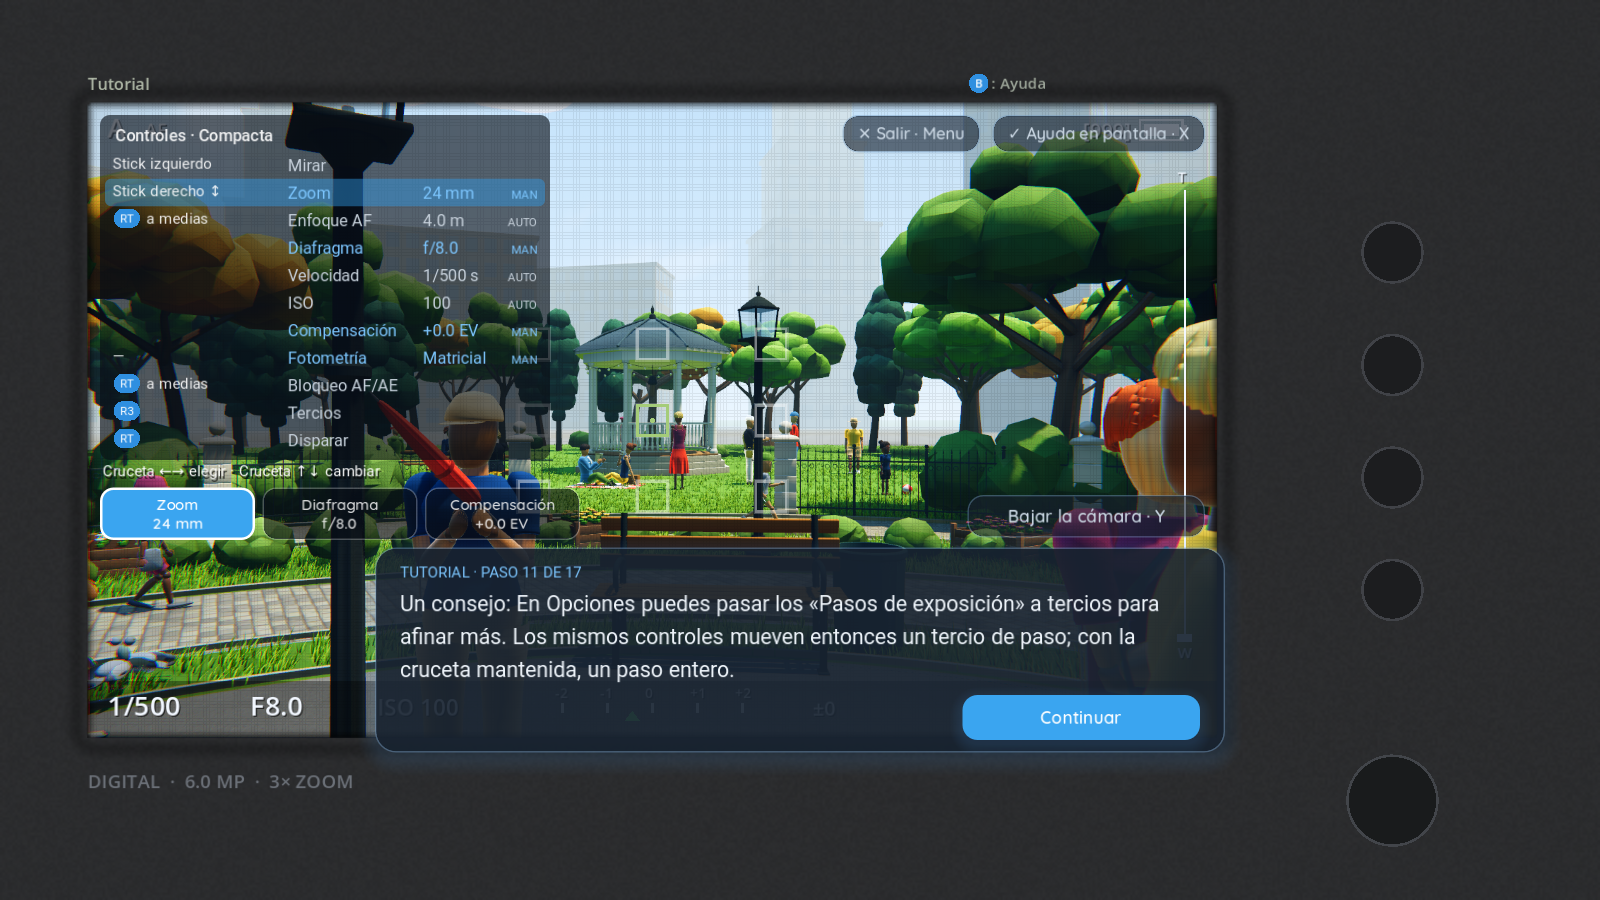
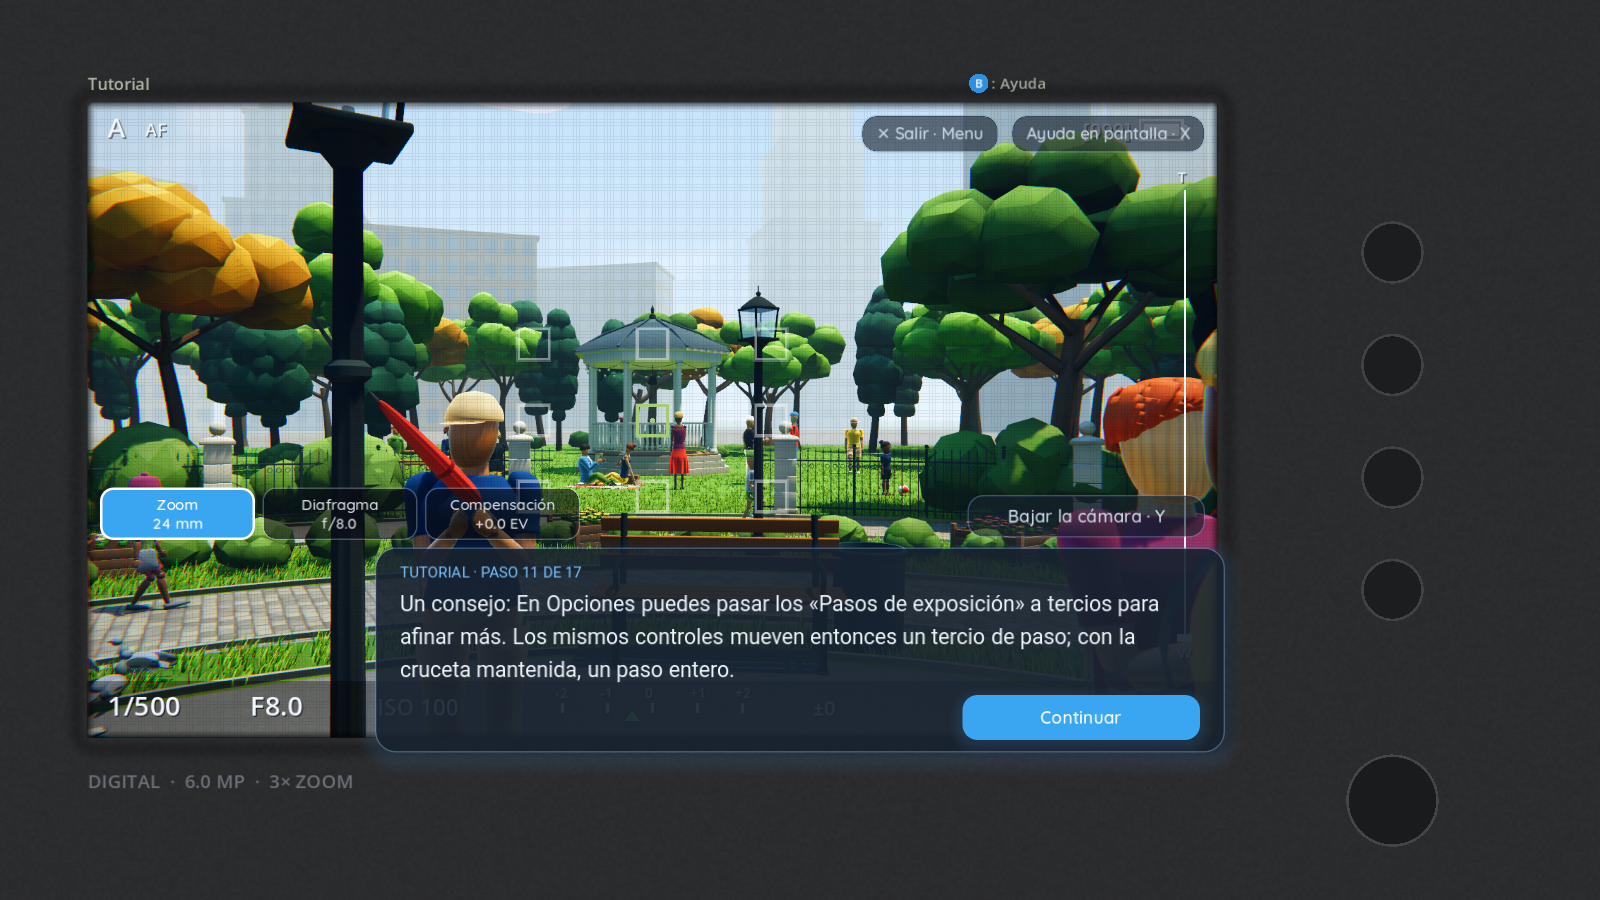
feat(opciones): menú reordenado (Gráficos y Equipo a doble columna; Tema · Invertir mirada, Vibración · Pasos, Álbum · Insignias); la ayuda en pantalla sale de Opciones; ← → buscan la opción de la misma fila

diff --git a/docs/futuro/22_MENU_TUTORIAL_MANDO.md b/docs/futuro/22_MENU_TUTORIAL_MANDO.md
@@ -120,8 +120,12 @@ Al arrancar (solo el juego real, nunca pruebas ni herramientas), `main.gd::check
 
 ## Tercios de paso (06-10-2026, usuario)
 
-Opciones tiene un noveno botón, **«Pasos de exposición: Enteros / Tercios»** (la rejilla pasa a cinco filas de 40 px). El tutorial gana el paso informativo `tercios`, tras el del diafragma, que lo aconseja y dice cómo saltar un paso entero con el dispositivo en uso (`{paso_entero}`: Mayús pulsada, la cruceta mantenida, − o + mantenidos). Todo el detalle en [docs/EQUIPAMIENTO_Y_OPTICAS.md §3.5](../EQUIPAMIENTO_Y_OPTICAS.md).
+Opciones tiene el botón **«Pasos de exposición: Enteros / Tercios»**. El tutorial gana el paso informativo `tercios`, tras el del diafragma, que lo aconseja y dice cómo saltar un paso entero con el dispositivo en uso (`{paso_entero}`: Mayús pulsada, la cruceta mantenida, − o + mantenidos). Todo el detalle en [docs/EQUIPAMIENTO_Y_OPTICAS.md §3.5](../EQUIPAMIENTO_Y_OPTICAS.md).
 
 ## Menú con mando: ← → van primero a la opción de al lado (06-10-2026, usuario)
 
 En el menú principal la cruceta, la seta izquierda y las flechas hacen lo mismo: ← → llevan a la opción que haya a ese lado de la que tiene el foco (la columna derecha de Opciones, la siguiente tarjeta de escenario) y **solo si no hay ninguna cambian de modo** (`main_menu.gd::option_beside()`). LB/RB y A/D cambian siempre de modo. La seta cuenta una vez por empujón (`stick_latched`). Comprobado en `tests/test_input.gd` con cruceta y con seta. Las pruebas fijan además `exposure_thirds = false` al crear el juego, para no depender de la opción del jugador.
+
+## Opciones reordenadas (06-10-2026, usuario)
+
+Cinco filas de 40 px: **Gráficos** y **Equipo fotográfico para el modo Sandbox** a doble columna, y debajo Tema · Invertir mirada, Vibración · Pasos de exposición, Álbum · Insignias. «Ayuda en pantalla» sale de Opciones: se quita y se pone jugando (tecla I o su botón). Con los botones anchos, ← → buscan la opción de al lado **en la misma fila** (`option_beside()` ya no usa la búsqueda de vecinos de Godot, que saltaba al botón ancho de arriba).

diff --git a/textos/es/menu.md b/textos/es/menu.md
@@ -218,7 +218,7 @@ Opciones
 
 ### modo_opciones_texto
 > máximo 180 caracteres
-Equipo, gráficos, tema, ayuda, vibración, insignias y álbum.
+Gráficos, equipo y ajustes del juego; álbum e insignias.
 
 ### modo_entrar
 Entrar
@@ -232,9 +232,6 @@ Tema: %s
 ### opcion_interfaz
 Interfaz: %s
 
-### opcion_ayuda
-Ayuda en pantalla: %s
-
 ### opcion_vibracion
 Vibración del mando: %s
 
@@ -244,6 +241,10 @@ Vibración: %s
 
 ### opcion_invertir
 Invertir mirada: %s
+
+### opcion_equipo_sandbox · Opciones, botón a doble columna (532 px: unos 50 caracteres)
+> máximo 50 caracteres
+Equipo fotográfico para el modo Sandbox
 
 ### opcion_pasos · Opciones (botón de 260 px: unos 28 caracteres)
 > máximo 28 caracteres
